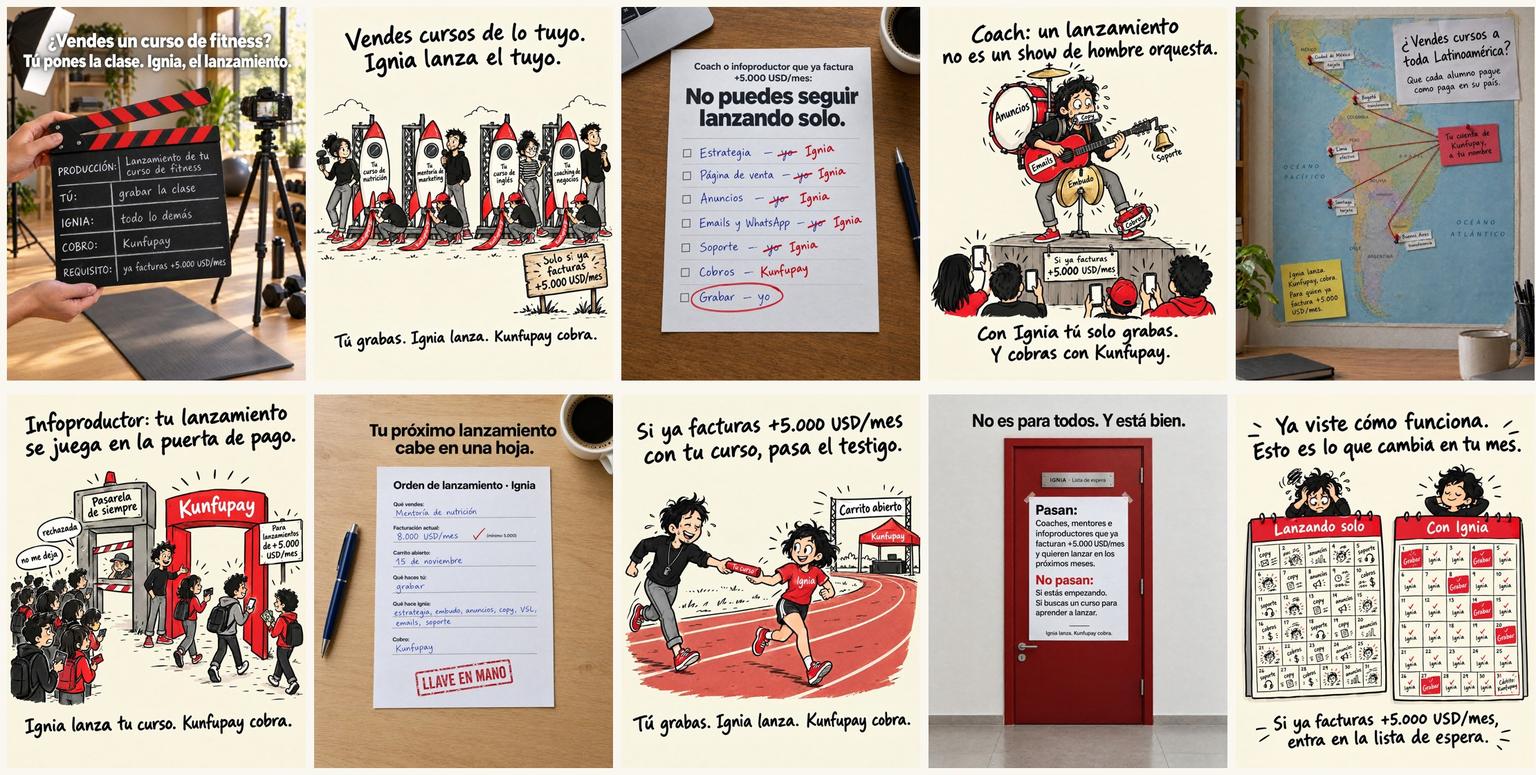
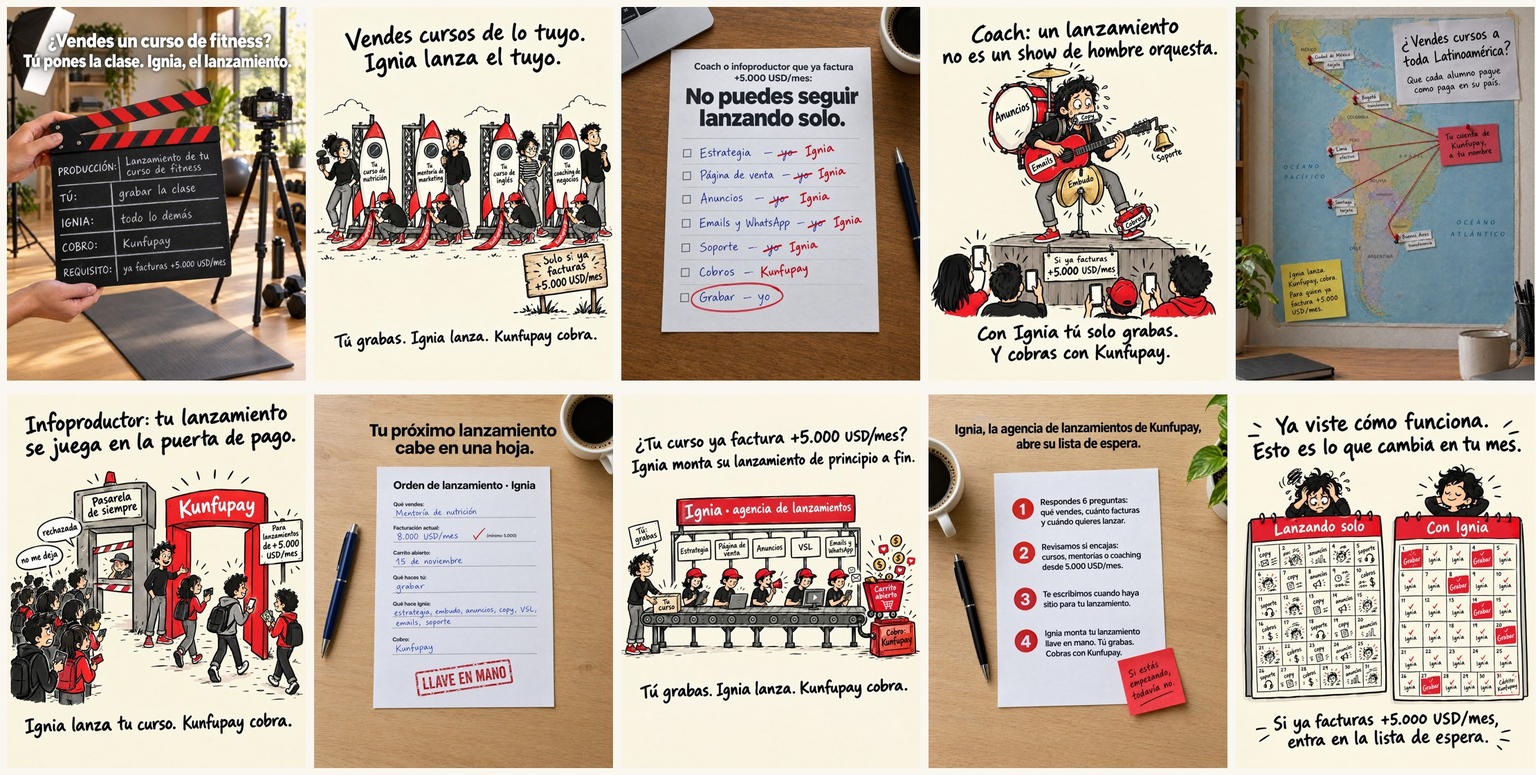
Ignia: 4B y R1 rehechos con contexto
El relevo y la puerta suponían que ya sabías qué es Ignia. Ahora son una
cadena de montaje (de tu curso al carrito cobrando con Kunfupay) y la hoja
de cuatro pasos de la lista de espera. Regla 26 y aprendizaje ampliados:
contexto siempre, también en retargeting.

Claude-Session: https://claude.ai/code/session_019ferXi2JGtSaS587CYiVAm

Changed region(s): [[0.4041, 0.5, 0.8081, 1.0]]

diff --git a/kunfupay/angulos/ignia.md b/kunfupay/angulos/ignia.md
@@ -8,7 +8,7 @@ Posicionamiento: **Tú grabas. Ignia lanza. Kunfupay cobra.**
 
 ## Decisiones
 
-- **V04 (06/10/2026): diez conceptos nuevos.** La V2 pegaba una tarjeta «Es para ti si:» y la V3 metía el filtro en pósits sobre las escenas viejas; el usuario rechazó las dos: «debes rehacerlas con la nueva idea que te di». En la V04 cada pieza nace de la frase que filtra («¿Vendes un curso de fitness?», «No puedes seguir lanzando solo», «¿Vendes cursos a toda Latinoamérica?») y la imagen es esa idea. Ver aprendizajes 06/10/2026 y regla 26.
+- **V04 (06/10/2026): diez conceptos nuevos.** La V2 pegaba una tarjeta «Es para ti si:» y la V3 metía el filtro en pósits sobre las escenas viejas; el usuario rechazó las dos: «debes rehacerlas con la nueva idea que te di». En la V04 cada pieza nace de la frase que filtra («¿Vendes un curso de fitness?», «No puedes seguir lanzando solo», «¿Vendes cursos a toda Latinoamérica?») y la imagen es esa idea. Ver aprendizajes 06/10/2026 y regla 26. 4B (relevo) y R1 (puerta) se rehicieron como cadena de montaje y hoja de pasos porque les faltaba contexto.
 
 - **Sin pruebas inventadas.** Nada de testimonios ni casos con cifras: es publicidad engañosa y Meta puede rechazar el anuncio o restringir la cuenta. Los huecos se marcan como [PENDIENTE: caso real].
 - **Sin «no pagas impuestos porque no pasa por tu banco».** Es falso en LATAM y Meta rechaza anuncios que sugieren esquivar impuestos. Versión usada: «El dinero entra a tu cuenta de Kunfupay, a tu nombre, no a tu banco personal. Lo gastas con tarjeta o lo retiras cuando quieras.» + regla 25: «Kunfupay te representa en tus ventas: hace la factura y paga los impuestos de cada venta. Tú te olvidas.»
@@ -288,76 +288,81 @@ Criterio V04: cada pieza se rehace desde la frase que filtra; la imagen es esa i
    El dinero entra a tu cuenta de Kunfupay, a tu nombre, no a tu banco personal. Lo gastas con tarjeta o lo retiras cuando quieras.
    No es para ti si estás empezando, si buscas un curso para aprender a lanzar o si buscas dejar de pagar impuestos. Entra en la lista de espera.
 
-### 4B · Si ya facturas +5.000 USD/mes con tu curso, pasa el testigo.
+### 4B · ¿Tu curso ya factura +5.000 USD/mes? Ignia monta su lanzamiento de principio a fin.
 
-- Rol: Prospector · Ángulo: Llave en mano · Formato: Viñeta · relevo
-- Imagen: `ignia-anuncios/IGNIA_LATAM_TOF_PRO_LLAVE_RELEVO_VINETA_1080x1350_V04.jpg`
-- En la imagen: Relevo: el coach pasa el testigo «Tu curso» a la corredora de Ignia; meta «Carrito abierto» con la carpa de Kunfupay. El umbral está en el titular.
-- Por qué: Una carrera de relevos: el coach pasa el testigo «Tu curso» a Ignia y la meta es «Carrito abierto», con Kunfupay al lado. El umbral es el propio titular: el relevo solo tiene sentido si ya corriste la primera parte.
+- Rol: Prospector · Ángulo: Llave en mano · Formato: Viñeta · cinta de montaje
+- Imagen: `ignia-anuncios/IGNIA_LATAM_TOF_PRO_LLAVE_CINTA_VINETA_1080x1350_V05.jpg`
+- En la imagen: Cadena de montaje: el coach («Tú: grabas») mete «Tu curso» en la cinta bajo el cartel «Ignia · agencia de lanzamientos»; estaciones Estrategia, Página de venta, Anuncios, VSL, Emails y WhatsApp; sale el «Carrito abierto» conectado a «Cobro: Kunfupay». Titular con el umbral.
+- Por qué: Una cadena de montaje que explica Ignia sin leer nada más: entra «Tu curso», pasa por estrategia, página de venta, anuncios, VSL, emails y WhatsApp, y sale el carrito abierto cobrando con Kunfupay. El cartel dice qué es Ignia y el titular pone el umbral.
 
 **Títulos**
 
-1. Pasa el testigo
-2. Tú corriste la primera parte
-3. Tu curso, en buenas manos
-4. Si ya facturas +5.000 USD
-5. Hasta el carrito abierto
+1. Ignia monta tu lanzamiento
+2. De tu curso al carrito abierto
+3. Agencia de lanzamientos
+4. ¿Tu curso ya factura?
+5. Tú grabas, Ignia lanza
 
 **Textos principales (de corto a largo)**
 
-1. Si ya facturas +5.000 USD al mes con tu curso, pasa el testigo. Ignia lanza. Kunfupay cobra.
+1. ¿Tu curso ya factura +5.000 USD al mes? Ignia, la agencia de lanzamientos de Kunfupay, monta su lanzamiento de principio a fin.
 
-2. Llevar tu curso hasta los 5.000 USD al mes lo hiciste tú. El siguiente tramo, el lanzamiento, lo puede correr Ignia. Tú grabas y cobras con Kunfupay.
+2. Ignia es una agencia de lanzamientos para infoproductores. Tú traes tu curso y grabas; Ignia hace estrategia, página, anuncios, VSL y emails, y el carrito cobra con Kunfupay. Solo si ya facturas desde 5.000 USD al mes.
 
-3. Coach o infoproductor: la primera parte de la carrera ya la corriste. Creaste el curso, lo vendiste y llegaste a facturar desde 5.000 USD al mes.
-   El lanzamiento es otro tramo. Ignia lo corre por ti, hasta el carrito abierto, y cobras con Kunfupay.
-   Entra en la lista de espera.
+3. Así funciona Ignia, la agencia de lanzamientos de Kunfupay: entra tu curso, pasa por estrategia, página de venta, anuncios, VSL, emails y WhatsApp, y sale con el carrito abierto, cobrando con Kunfupay.
+   Tu parte es grabar.
+   Es para quien ya vende cursos, mentorías o coaching en Latinoamérica y factura desde 5.000 USD al mes. Entra en la lista de espera.
 
-4. Si ya facturas desde 5.000 USD al mes con tus cursos, mentorías o coaching, demostraste lo difícil: que tu curso se vende.
-   Ahora pasa el testigo. Ignia hace tu lanzamiento llave en mano: estrategia, embudo, anuncios, copy, VSL, emails y WhatsApp, y el soporte durante el carrito abierto.
-   En la meta está Kunfupay. Kunfupay te representa en tus ventas: hace la factura y paga los impuestos de cada venta. Tú te olvidas.
+4. Si vendes cursos, mentorías o coaching y ya facturas desde 5.000 USD al mes, esta es la idea de Ignia: tu lanzamiento como una cadena de montaje, donde cada parte la hace alguien que solo hace eso.
+   Ignia hace tu lanzamiento llave en mano: estrategia, embudo, anuncios, copy, VSL, emails y WhatsApp, y el soporte durante el carrito abierto.
+   Al final de la cadena, el carrito cobra con Kunfupay. Kunfupay te representa en tus ventas: hace la factura y paga los impuestos de cada venta. Tú te olvidas.
    Si estás empezando, todavía no es para ti. Entra en la lista de espera.
 
-5. Hay una parte de la carrera que solo puedes correr tú: crear tu curso, ganarte a tu comunidad y llegar a facturar desde 5.000 USD al mes. Si ya la corriste, el siguiente tramo no tiene por qué ser tuyo.
-   Ignia hace tu lanzamiento llave en mano: estrategia, embudo, anuncios, copy, VSL, emails y WhatsApp, y el soporte durante el carrito abierto.
-   Tú sigues grabando. El cobro va con Kunfupay: tu alumno paga como paga en su país. Kunfupay te representa en tus ventas: hace la factura y paga los impuestos de cada venta. Tú te olvidas.
+5. Ignia es la agencia de lanzamientos de Kunfupay. Trabaja con coaches, mentores e infoproductores de Latinoamérica que ya venden y facturan desde 5.000 USD al mes, y que no quieren montar otro lanzamiento solos.
+   Tú traes tu curso y grabas. Ignia hace tu lanzamiento llave en mano: estrategia, embudo, anuncios, copy, VSL, emails y WhatsApp, y el soporte durante el carrito abierto.
+   El último paso es el cobro: tu carrito cobra con Kunfupay y tu alumno paga como paga en su país. Kunfupay te representa en tus ventas: hace la factura y paga los impuestos de cada venta. Tú te olvidas.
    El dinero entra a tu cuenta de Kunfupay, a tu nombre, no a tu banco personal. Lo gastas con tarjeta o lo retiras cuando quieras.
    No es para ti si estás empezando, si buscas un curso para aprender a lanzar o si buscas dejar de pagar impuestos. Entra en la lista de espera.
 
-### R1 · No es para todos. Y está bien.
+### R1 · Ignia, la agencia de lanzamientos de Kunfupay, abre su lista de espera.
 
-- Rol: Calificador · Ángulo: Lista de espera · Formato: Foto real · puerta roja
-- Imagen: `ignia-anuncios/IGNIA_LATAM_RET_CAL_LISTA_PUERTA_1080x1350_V04.jpg`
-- En la imagen: Puerta roja con placa «IGNIA · Lista de espera» y un aviso grande: «Pasan: coaches, mentores e infoproductores que ya facturan +5.000 USD/mes… No pasan: si estás empezando, si buscas un curso para aprender a lanzar».
-- Por qué: La puerta roja con la placa «IGNIA · Lista de espera» y un aviso de quién pasa y quién no. Para quien ya vio la VSL: filtra fuerte y da exclusividad sin prometer plazas que no podemos confirmar.
+- Rol: Calificador · Ángulo: Lista de espera · Formato: Foto real · hoja de pasos
+- Imagen: `ignia-anuncios/IGNIA_LATAM_RET_CAL_LISTA_PASOS_1080x1350_V05.jpg`
+- En la imagen: Hoja «Cómo entras en la lista de espera»: 1 respondes 6 preguntas, 2 revisamos si encajas (desde 5.000 USD/mes), 3 te escribimos, 4 Ignia monta tu lanzamiento y cobras con Kunfupay. Titular: «Ignia, la agencia de lanzamientos de Kunfupay, abre su lista de espera.» Pósit: «Si estás empezando, todavía no.»
+- Por qué: Una hoja que explica qué es Ignia y qué pasa al entrar en la lista, en cuatro pasos: respondes seis preguntas, revisamos si encajas (desde 5.000 USD/mes), te escribimos y Ignia monta tu lanzamiento mientras cobras con Kunfupay. El pósit deja fuera a quien está empezando.
 
 **Títulos**
 
-1. No es para todos
-2. Quién pasa y quién no
-3. Lista de espera de Ignia
-4. Pasan: +5.000 USD/mes
-5. Tu próximo lanzamiento
+1. Ignia abre su lista de espera
+2. Cuatro pasos y lanzas
+3. Revisamos si encajas
+4. Desde 5.000 USD/mes
+5. Cómo entras en la lista
 
 **Textos principales (de corto a largo)**
 
-1. La lista de espera de Ignia no es para todos. Pasan coaches e infoproductores que ya facturan +5.000 USD al mes. Ignia lanza. Kunfupay cobra.
+1. Ignia, la agencia de lanzamientos de Kunfupay, abre su lista de espera. Para cursos, mentorías o coaching desde 5.000 USD al mes.
 
-2. Pasan: coaches, mentores e infoproductores que ya facturan desde 5.000 USD al mes y quieren lanzar pronto. No pasan: quien está empezando o busca aprender a lanzar. Ignia lanza. Kunfupay cobra.
+2. Ignia monta lanzamientos llave en mano y cobras con Kunfupay. Para entrar: respondes seis preguntas, revisamos si encajas y te escribimos cuando haya sitio. Solo si ya facturas desde 5.000 USD al mes.
 
-3. Ya viste cómo funciona: tú grabas. Ignia lanza. Kunfupay cobra.
-   La lista de espera tiene una puerta, y en la puerta pone quién pasa: quien ya vende cursos, mentorías o coaching, factura desde 5.000 USD al mes y quiere lanzar en los próximos meses.
-   Entra en la lista de espera.
+3. Así entras en la lista de espera de Ignia, la agencia de lanzamientos de Kunfupay:
+   1. Respondes seis preguntas: qué vendes, cuánto facturas y cuándo quieres lanzar.
+   2. Revisamos si encajas.
+   3. Te escribimos cuando haya sitio.
+   4. Ignia monta tu lanzamiento. Tú grabas y cobras con Kunfupay.
+   Si estás empezando, todavía no es para ti.
 
-4. Ignia no es para todos, y está bien. Es para quien ya vende y quiere dejar de montar sus lanzamientos solo.
+4. Ya viste cómo funciona Ignia. Si quieres que tu próximo lanzamiento sea llave en mano, el paso es la lista de espera.
+   Respondes seis preguntas, revisamos si tu negocio encaja y te escribimos cuando haya sitio para tu lanzamiento.
    Ignia hace tu lanzamiento llave en mano: estrategia, embudo, anuncios, copy, VSL, emails y WhatsApp, y el soporte durante el carrito abierto.
    El cobro va con Kunfupay. Kunfupay te representa en tus ventas: hace la factura y paga los impuestos de cada venta. Tú te olvidas.
    Es para quien ya vende cursos, mentorías o coaching en Latinoamérica y factura desde 5.000 USD al mes. Si estás empezando, todavía no es para ti. Entra en la lista de espera.
 
-5. Viste la VSL y sabes cómo funciona: tú grabas, Ignia lanza y Kunfupay cobra. Antes de entrar en la lista, lee la puerta.
-   Pasan los coaches, mentores e infoproductores que ya facturan desde 5.000 USD al mes y quieren lanzar en los próximos meses. Te preguntamos qué vendes, cuánto facturas, cuándo quieres lanzar y con qué cobras hoy, y te escribimos cuando haya sitio para tu lanzamiento.
-   El cobro irá con Kunfupay. Kunfupay te representa en tus ventas: hace la factura y paga los impuestos de cada venta. Tú te olvidas.
-   No es para ti si estás empezando, si buscas un curso para aprender a lanzar o si buscas dejar de pagar impuestos. Entra en la lista de espera.
+5. Ignia es la agencia de lanzamientos de Kunfupay: hace tu lanzamiento llave en mano mientras tú grabas, y el carrito cobra con Kunfupay.
+   No trabajamos con todo el mundo, por eso hay lista de espera. Respondes seis preguntas sobre lo que vendes, cuánto facturas, cuándo quieres lanzar y con qué cobras hoy. Revisamos si encajas y te escribimos cuando haya sitio para tu lanzamiento.
+   Ignia hace tu lanzamiento llave en mano: estrategia, embudo, anuncios, copy, VSL, emails y WhatsApp, y el soporte durante el carrito abierto.
+   Kunfupay te representa en tus ventas: hace la factura y paga los impuestos de cada venta. Tú te olvidas.
+   Es para quien ya vende cursos, mentorías o coaching en Latinoamérica y factura desde 5.000 USD al mes. No es para ti si estás empezando, si buscas un curso para aprender a lanzar o si buscas dejar de pagar impuestos. Entra en la lista de espera.
 
 ### R2 · Ya viste cómo funciona. Esto es lo que cambia en tu mes.
 
@@ -509,4 +514,4 @@ Y la próxima vez que abras el carrito, que el único mensaje sea «ya pagué».
 - Nombre del avatar.
 - Revisión de políticas de Meta (servicios financieros / cripto) por país.
 
-Créditos Higgsfield: V1 27,5 · V2 descartada 30,25 · V3 descartada 33 · V04 33 (10 imágenes nuevas y 2 correcciones). Total 123,75.
+Créditos Higgsfield: V1 27,5 · V2 descartada 30,25 · V3 descartada 33 · V04 33 (10 imágenes nuevas y 2 correcciones) · 4B y R1 rehechos con contexto 5,5. Total 129,25.

diff --git a/kunfupay/aprendizajes.md b/kunfupay/aprendizajes.md
@@ -37,4 +37,6 @@
   - Cada pieza decide su sitio para el filtro según su escena. Nunca una caja o tarjeta igual en toda la tanda.
   - Todos los textos filtran, también el más corto: el texto 1 nombra al comprador; desde el texto 2, el umbral; el texto 5 cierra con la exclusión completa («si estás empezando, si buscas un curso para aprender a lanzar o si buscas dejar de pagar impuestos»).
   - Nada en la imagen que contradiga el filtro o la verdad: un checkout de 49 USD no encaja con quien factura 5.000 al mes, y una línea «Impuestos 0,00» sugiere evadir.
+- **Tercera corrección (V04):** «no me gustan el de la carrera y el de la puerta, me parece que le falta contexto, está bien que es para leads con mayor nivel de conciencia, pero igual debe dar contexto». El relevo y la puerta suponían que ya sabías qué es Ignia. Se rehicieron: la cadena de montaje (entra tu curso, sale el carrito cobrando con Kunfupay) y la hoja de cuatro pasos de la lista de espera, con titular «Ignia, la agencia de lanzamientos de Kunfupay…».
+  - Regla: toda pieza, también la de retargeting, dice por sí sola qué es Ignia, qué hace por ti, para quién es y que se cobra con Kunfupay. Una metáfora que pide saber qué es Ignia no vale.
 - **Lo que funcionó:** las escenas (pasarela, pósits, ocho brazos, puerta del banco, cohete, checklist, pizarra). Se conservan.

diff --git a/.claude/skills/cerebro-kunfupay/SKILL.md b/.claude/skills/cerebro-kunfupay/SKILL.md
@@ -218,6 +218,7 @@ Si el documento tiene más de 60 días, avisa de que conviene refrescar la inves
     - El titular, o un rótulo pegado a él, nombra al comprador: «Si eres coach o infoproductor, no puedes seguir lanzando solo», «Si lanzas tu curso, mentoría o programa:».
     - El umbral de facturación va en un objeto de la propia escena (pósit, cartel, pegatina, ficha con pinza, portapapeles, pizarra, formulario). Cada pieza elige el suyo.
     - Prohibido: la misma caja o tarjeta de «Es para ti si:» pegada encima de todas las piezas, y el texto suelto sin jerarquía.
+    - **Contexto siempre, también en retargeting** (06/10/2026: «le falta contexto, está bien que es para leads con mayor nivel de conciencia, pero igual debe dar contexto»). Cada pieza dice por sí sola qué es la marca, qué hace por ti, para quién es y que se cobra con Kunfupay. Una metáfora que solo entiende quien ya conoce la marca (relevo, puerta cerrada) no vale. Es la regla 18 aplicada a estáticos.
     - Nada en la imagen contradice el filtro o la verdad (precios ridículos para el perfil, «Impuestos 0,00»).
     - En los textos: el texto 1 ya nombra al comprador; el umbral desde el texto 2; el más largo cierra con la exclusión completa.
 
